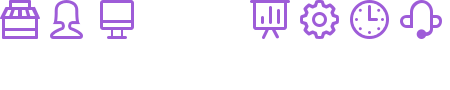
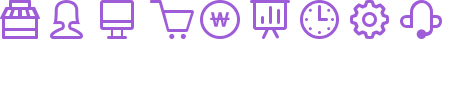
page - 관리자 서브 헤더 작업 중

Changed region(s): [[0.6533, 0.0, 0.8711, 0.4444], [0.3111, 0.0, 0.56, 0.4444]]

diff --git a/source/manager/html/sub.html b/source/manager/html/sub.html
@@ -1,40 +1,85 @@
 <!doctype html>
-<html class="no-js" lang="ko">
+<html lang="ko">
 <head>
 <meta charset="utf-8">
 <title>Gosumom</title>
 <meta name="description" content="">
 <meta name="keywords" content="">
 <meta name="author" content=""><!-- humans.txt 처리 권장 -->
-<meta name="viewport" content="width=device-width, initial-scale=1">
-<link rel="apple-touch-icon" href="apple-touch-icon.png">
 <link rel="stylesheet" href="../css/style.css">
 <script src="https://ajax.googleapis.com/ajax/libs/jquery/1.11.3/jquery.min.js"></script>
 <script>window.jQuery || document.write('<script src="../js/vendor/jquery-1.11.3.min.js"><\/script>')</script>
 </head>
 <body>
 
-	<header>
-		<h1><img src="" alt="gosumom"></h1>
+	<div class="header">
+		<h1 class="logo"><img src="../img/logo.png" alt="gosumom"></h1>
 		<div class="user_menu">
 			<a href="#">내 가게</a>
 			<a href="#">로그아웃</a>
 		</div>
-		<nav>
+		<div class="gnb_wrap">
 			<ul>
-				<li><a href="#">가게관리</a></li>
-				<li><a href="#">회원관리</a></li>
-				<li><a href="#">운영관리</a></li>
-				<li><a href="#">주문관리</a></li>
-				<li><a href="#">매출관리</a></li>
-				<li><a href="#">정산관리</a></li>
+				<li class="gnb_store"><a href="#">가게관리</a></li>
+				<li class="gnb_member"><a href="#">회원관리</a></li>
+				<li class="gnb_manage"><a href="#">운영관리</a></li>
+				<li class="gnb_order active"><a href="#">주문관리</a></li>
+				<li class="gnb_sales"><a href="#">매출관리</a></li>
+				<li class="gnb_calculate"><a href="#">정산관리</a></li>
 			</ul>
-		</nav>
-	</header>
+		</div>
+	</div class="header">
 
 	<div class="breadcrumbs">
 		<span>홈</span>
-		<span></span>
+		<span>주문관리</span>
+		<strong>전체 결제내역</strong>
+	</div>
+
+	<div class="contents_wrap">
+		<!-- snb -->
+		<div class="sub_wrap">
+			<h2>주문관리</h2>
+			<ul>
+				<li><a href="#">전체 결제내역</a></li>
+			</ul>
+		</div>
+		<!-- // snb -->
+
+		<div class="contents">
+			<h3>전체 결제내역</h3>
+			<button type="button">주문일로 보기</button>
+			<button type="button">주문처리흐름으로 보기</button>
+			<table>
+				<thead>
+					<tr>
+						<th><input type="checkbox" name="" id=""></th>
+						<th>번호</th>
+						<th>주문일시</th>
+						<th colspan="2">주문번호/주문상품</th>
+						<th>주문자</th>
+						<th>받으시는분</th>
+						<th>결제수단</th>
+						<th>금액</th>
+						<th>처리상태</th>
+					</tr>
+				</thead>
+				<tbody>
+					<tr>
+						<td><input type="checkbox" name="" id=""></td>
+						<td>12</td>
+						<td>2015-08-16 14:50</td>
+						<td><a href="#">20150816811018210</a></td>
+						<td>아름이네 감자반찬</td>
+						<td>전지현</td>
+						<td>김수현</td>
+						<td>신용카드</td>
+						<td>30,000</td>
+						<td>방문완료</td>
+					</tr>
+				</tbody>
+			</table>
+		</div>
 	</div>
 
 

diff --git a/source/manager/css/style.css b/source/manager/css/style.css
@@ -126,4 +126,168 @@ table {
 /*td, th {
  padding: 0
 }*/
+html {
+	color: #323232;
+	font-size: 16px;
+	line-height: 1.4;
+}
+body{
+	font-size: 0.75em;
+}
+hr {
+	display: none;
+}
+audio, canvas, iframe, img, svg, video {
+	vertical-align: top;
+}
+fieldset {
+	border: 0;
+	margin: 0;
+	padding: 0;
+}
+textarea {
+	resize: vertical;
+}
+div, input, select{
+	box-sizing: border-box;
+}
+input, select{
+	width: 100%;
+}
+ul, ol, li {
+	list-style: none;
+}
+h1, h2, h3, h4, h5, h6, ul, ol, li, p, fieldset, button, dl, dt, dd, figure, section {
+	margin: 0;
+	padding: 0;
+}
+button {
+	overflow: visible;
+	border: 0;
+	background-color: none;
+}
+a,
+a:hover {
+	text-decoration: none;
+}
+input[type="text"], input[type="search"], input[type="password"], input[type="email"] {
+	box-sizing: border-box;
+	height: 50px;
+	padding: 10px;
+	border: 0;
+	border-radius: 2px;
+	color: #323232;
+	line-height: 30px;
+}
+/*input:-webkit-autofill {
+	-webkit-box-shadow: 0 0 0 50px white inset;
+	-webkit-text-fill-color: #333;
+}*/
+textarea {
+	box-sizing: border-box;
+	width: 100%;
+	padding: 10px 15px;
+	border: 1px solid #d5d5d5;
+}
+legend {
+	position: absolute;
+	top: -9999px;
+	width: 0;
+	height: 0;
+	font-size: 0;
+	line-height: 0;
+}
+select {
+	height: 40px;
+	padding-top: 7px;
+	padding-bottom: 7px;
+	padding-left: 17px;
+	padding-right: 8px;
+	border: 1px solid #cbcbcb;
+	line-height: 26px;
+}
+
+/*header*/
+.header{
+	overflow: hidden;
+	border-bottom: 1px solid #9e5cd8;
+}
+/*.header .top{
+	box-sizing: border-box;
+	padding-top: 14px;
+	height: 49px;
+}*/
+.header .logo{
+	float: left;
+	padding: 14px 20px 15px;
+	line-height: 0;
+}
+.header .user_menu{
+	float: right;
+	padding-top: 12px;
+}
+.gnb_wrap{
+	clear: both;
+	border-top: 1px solid #c8c8c8;
+}
+.gnb_wrap ul{
+	overflow: hidden;
+}
+.gnb_wrap li{
+	float: left;
+	width: 16.66%;
+}
+.gnb_wrap li a{
+	box-sizing: border-box;
+	display: block;
+	padding-top: 21px;
+	border-right: 1px solid #dcdcdc;
+	width: 100%;
+	height: 100px;
+	color: #323232;
+	font-size: 16px;
+	font-weight: bold;
+	text-align: center;
+}
+.gnb_wrap li a:hover,
+.gnb_wrap li a:focus,
+.gnb_wrap li.active a{
+	background-color: #9e5cd8;
+	color: #fff;
+}
+
+/*gnb icon*/
+.gnb_wrap li a::before{
+	content:"";
+	display: block;
+	margin: 0 auto 6px;
+	width: 44px;
+	height: 40px;
+	background: url(../img/icon.png) no-repeat;
+}
+
+li.gnb_store a::before{
+	background-position: 0 0;
+}
+li.gnb_member a::before{
+	background-position: -50px 0;
+}
+li.gnb_manage a::before{
+	background-position: -100px 0;
+}
+li.gnb_order a::before{
+	background-position: -150px 0;
+}
+li.gnb_sales a::before{
+	background-position: -200px 0;
+}
+li.gnb_calculate a::before{
+	background-position: -250px 0;
+}
+
+.gnb_wrap li a:hover::before,
+.gnb_wrap li a:focus::before,
+.gnb_wrap li.active a::before{
+	background-position-y: -45px;
+}
 

diff --git a/source/_index/index.html b/source/_index/index.html
@@ -33,6 +33,11 @@
 		<div class="_status"><span id="progress"><em></em></span> <span id="total"></span> / <span id="ing"></span> / <span id="finish"></span></div>
 
 		<div class="_pagelist">
+			<h3>관리자</h3>
+			<ul>
+				<li class="ing"><span>2015-08-24</span><a href="../manager/html/login.html"><strong>login.html</strong>로그인</a><em></em></li>
+				<li class="ing"><span>2015-08-24</span><a href="../manager/html/sub.html"><strong>sub.html</strong>서브</a><em></em></li>
+			</ul>
 			
 			<h3>로그인</h3>
 			<ul>
